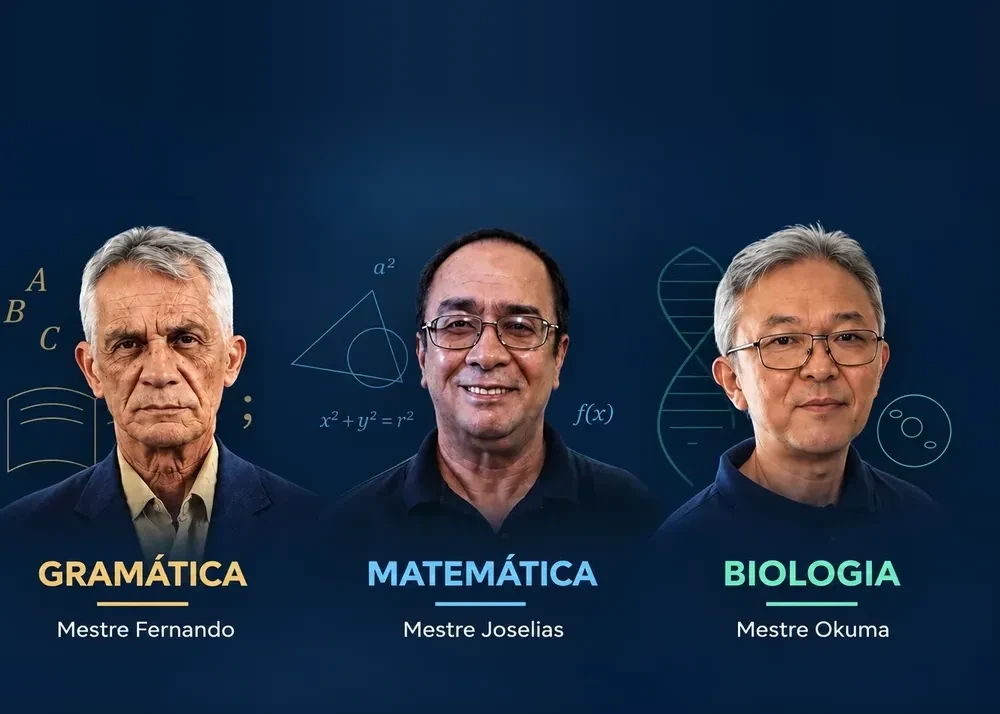
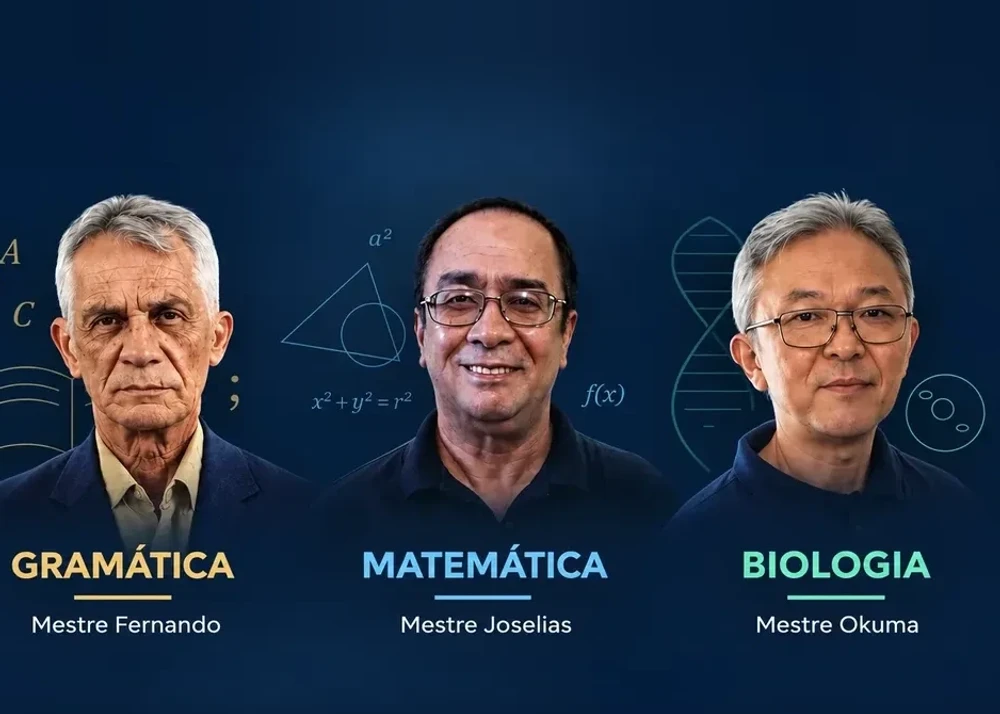
Cursos gravados: titulo Cursos gravados (etiqueta mantida), texto mais a direita, professores maiores no celular

diff --git a/app/api/[...path]/route.ts b/app/api/[...path]/route.ts
@@ -27,7 +27,7 @@ const choices=['0','1','2','3','4','5','6','7'];
 const communityDefaults:Rec[]=[{id:'comunidade',title:'Comunidade GETEPE',visible:true,fields:{'Link da comunidade (WhatsApp)':''}}];
 async function body(req:Request,max=500000){const raw=await req.text();if(raw.length>max)fail('Conteúdo muito grande.',413);try{return JSON.parse(raw)}catch{fail('Dados inválidos.')}}
 async function admin(req:Request){const user=await getAdminIdentity(req);if(!user)fail('Entre com a conta autorizada.',401);const allowed=(bindings().ADMIN_EMAILS||'').toLowerCase().split(',').map(x=>x.trim()).filter(Boolean);const dev=process.env.NODE_ENV==='development'&&user.userId==='local_seedy'&&user.email==='seedy@sites.test';if(!dev&&!allowed.includes(user.email.toLowerCase()))fail('Esta conta não tem acesso ao painel.',403);return user;}
-function normalized(data:unknown){const next=structuredClone(data) as Content;next.provas??=[];next.comunidade??=structuredClone(communityDefaults);for(const d of communityDefaults)if(!next.comunidade.some(r=>r.id===d.id))next.comunidade.push(structuredClone(d));next.paginas??=structuredClone(pageDefaults) as unknown as Rec[];for(const r of next.carrossel||[]){if(r.fields?.['Chamada superior']==='NOVAS TURMAS · INÍCIO EM 29/09')r.fields['Chamada superior']='PREPARAÇÃO PARA CONCURSOS MILITARES';if(r.fields?.Descrição)r.fields.Descrição=r.fields.Descrição.replace('Estude no seu ritmo, com Prazo conforme o curso aos cursos gravados.','Estude no seu ritmo e consulte o prazo de acesso de cada curso.')}for(const upgrade of [{"id":"slide-0","old":"Seu futuro tem\num objetivo.\nPrepare-se para ele.","title":"APMBB · Barro Branco","fields":{"Chamada superior":"NOVA TURMA · INÍCIO 12/01","Descrição":"Preparação presencial e online. Escolha sua modalidade e consulte horários, valores e materiais com a equipe.","Texto do botão":"Mais informações","Destino do botão":"#informacoes/apmbb-janeiro","Imagem":"/carrossel-apmbb-janeiro.png","Texto alternativo":"GETEPE — nova turma APMBB · Barro Branco, início em 12/01, presencial e online.","Formato":"banner"}},{"id":"slide-1","old":"Mais confiança.\nUma matéria\nde cada vez.","title":"EsPCEx · ESA · EEAR","fields":{"Chamada superior":"NOVA TURMA · INÍCIO 12/01","Descrição":"Preparação presencial e online. Escolha sua modalidade e consulte horários, valores e materiais com a equipe.","Texto do botão":"Mais informações","Destino do botão":"#informacoes/espcex-janeiro","Imagem":"/carrossel-espcex-janeiro.png","Texto alternativo":"GETEPE — nova turma EsPCEx · ESA · EEAR, início em 12/01, presencial e online.","Formato":"banner"}},{"id":"slide-2","old":"Cada conquista\nfaz parte da\nnossa história.","title":"Venha fazer parte do nosso time de aprovados!","fields":{"Chamada superior":"APROVADOS · NOSSA HISTÓRIA","Descrição":"Conheça as turmas do GETEPE e prepare-se para sua carreira militar.","Texto do botão":"Conhecer as turmas","Destino do botão":"#cursos","Imagem":"/carrossel-aprovados-tratados.png","Texto alternativo":"Venha fazer parte do nosso time de aprovados! Treze alunos do GETEPE, identificados por nome e instituição: EPCAr, EsPCEx, APMBB, AFA, ESA e Colégio Naval.","Formato":"banner"}}]){const r=next.carrossel?.find((r:Rec)=>r.id===upgrade.id);if(r&&r.title===upgrade.old&&!r.fields?.Imagem){r.title=upgrade.title;r.fields={...r.fields,...upgrade.fields};}}for(const r of next.carrossel||[]){if(r.id==='slide-2'&&r.fields?.Imagem==='/carrossel-aprovados.png')r.fields.Imagem='/carrossel-aprovados-tratados.png';}for(const r of next.carrossel||[]){if(r.id==='slide-2'&&r.fields?.Imagem==='/carrossel-aprovados-originais.png')r.fields.Imagem='/carrossel-aprovados-tratados.png';}for(const u of [{"id":"matematica","image":"/curso-gravado-matematica.png","alt":"GETEPE — curso gravado de Matemática — Mestre Joselias"},{"id":"biologia","image":"/curso-gravado-biologia.png","alt":"GETEPE — curso gravado de Biologia — Mestre Okuma"},{"id":"portugues","image":"/curso-gravado-gramatica.png","alt":"GETEPE — curso gravado de Gramática — Mestre Fernando"}]){const r=next.cursos?.find((r:Rec)=>r.id===u.id);if(r&&!r.fields?.['Imagem do produto']){r.fields??={};r.fields['Imagem do produto']=u.image;r.fields['Texto alternativo da imagem']=u.alt;}}for(const r of next.carrossel||[]){if(r.id==='slide-2'&&['/carrossel-aprovados.png','/carrossel-aprovados-originais.png','/carrossel-aprovados-tratados.png'].includes(r.fields?.Imagem)){r.title="Cursos gravados por matéria";r.fields={...r.fields,...{"Chamada superior":"CURSOS GRAVADOS · POR MATÉRIA","Descrição":"Estude no seu ritmo. Gramática com Mestre Fernando, Matemática com Mestre Joselias e Biologia com Mestre Okuma.","Texto do botão":"Conhecer os cursos gravados","Destino do botão":"#gravados","Imagem":"/carrossel-cursos-gravados.png","Texto alternativo":"GETEPE — cursos gravados por matéria: Gramática com Mestre Fernando, Matemática com Mestre Joselias e Biologia com Mestre Okuma. Estude no seu ritmo.","Formato":"banner"}};}}return upgradeTrialAndDates(next)}
+function normalized(data:unknown){const next=structuredClone(data) as Content;next.provas??=[];next.comunidade??=structuredClone(communityDefaults);for(const d of communityDefaults)if(!next.comunidade.some(r=>r.id===d.id))next.comunidade.push(structuredClone(d));next.paginas??=structuredClone(pageDefaults) as unknown as Rec[];for(const r of next.carrossel||[]){if(r.fields?.['Chamada superior']==='NOVAS TURMAS · INÍCIO EM 29/09')r.fields['Chamada superior']='PREPARAÇÃO PARA CONCURSOS MILITARES';if(r.fields?.Descrição)r.fields.Descrição=r.fields.Descrição.replace('Estude no seu ritmo, com Prazo conforme o curso aos cursos gravados.','Estude no seu ritmo e consulte o prazo de acesso de cada curso.')}for(const upgrade of [{"id":"slide-0","old":"Seu futuro tem\num objetivo.\nPrepare-se para ele.","title":"APMBB · Barro Branco","fields":{"Chamada superior":"NOVA TURMA · INÍCIO 12/01","Descrição":"Preparação presencial e online. Escolha sua modalidade e consulte horários, valores e materiais com a equipe.","Texto do botão":"Mais informações","Destino do botão":"#informacoes/apmbb-janeiro","Imagem":"/carrossel-apmbb-janeiro.png","Texto alternativo":"GETEPE — nova turma APMBB · Barro Branco, início em 12/01, presencial e online.","Formato":"banner"}},{"id":"slide-1","old":"Mais confiança.\nUma matéria\nde cada vez.","title":"EsPCEx · ESA · EEAR","fields":{"Chamada superior":"NOVA TURMA · INÍCIO 12/01","Descrição":"Preparação presencial e online. Escolha sua modalidade e consulte horários, valores e materiais com a equipe.","Texto do botão":"Mais informações","Destino do botão":"#informacoes/espcex-janeiro","Imagem":"/carrossel-espcex-janeiro.png","Texto alternativo":"GETEPE — nova turma EsPCEx · ESA · EEAR, início em 12/01, presencial e online.","Formato":"banner"}},{"id":"slide-2","old":"Cada conquista\nfaz parte da\nnossa história.","title":"Venha fazer parte do nosso time de aprovados!","fields":{"Chamada superior":"APROVADOS · NOSSA HISTÓRIA","Descrição":"Conheça as turmas do GETEPE e prepare-se para sua carreira militar.","Texto do botão":"Conhecer as turmas","Destino do botão":"#cursos","Imagem":"/carrossel-aprovados-tratados.png","Texto alternativo":"Venha fazer parte do nosso time de aprovados! Treze alunos do GETEPE, identificados por nome e instituição: EPCAr, EsPCEx, APMBB, AFA, ESA e Colégio Naval.","Formato":"banner"}}]){const r=next.carrossel?.find((r:Rec)=>r.id===upgrade.id);if(r&&r.title===upgrade.old&&!r.fields?.Imagem){r.title=upgrade.title;r.fields={...r.fields,...upgrade.fields};}}for(const r of next.carrossel||[]){if(r.id==='slide-2'&&r.fields?.Imagem==='/carrossel-aprovados.png')r.fields.Imagem='/carrossel-aprovados-tratados.png';}for(const r of next.carrossel||[]){if(r.id==='slide-2'&&r.fields?.Imagem==='/carrossel-aprovados-originais.png')r.fields.Imagem='/carrossel-aprovados-tratados.png';}for(const u of [{"id":"matematica","image":"/curso-gravado-matematica.png","alt":"GETEPE — curso gravado de Matemática — Mestre Joselias"},{"id":"biologia","image":"/curso-gravado-biologia.png","alt":"GETEPE — curso gravado de Biologia — Mestre Okuma"},{"id":"portugues","image":"/curso-gravado-gramatica.png","alt":"GETEPE — curso gravado de Gramática — Mestre Fernando"}]){const r=next.cursos?.find((r:Rec)=>r.id===u.id);if(r&&!r.fields?.['Imagem do produto']){r.fields??={};r.fields['Imagem do produto']=u.image;r.fields['Texto alternativo da imagem']=u.alt;}}for(const r of next.carrossel||[]){if(r.id==='slide-2'&&['/carrossel-aprovados.png','/carrossel-aprovados-originais.png','/carrossel-aprovados-tratados.png'].includes(r.fields?.Imagem)){r.title="Cursos gravados";r.fields={...r.fields,...{"Chamada superior":"CURSOS GRAVADOS · POR MATÉRIA","Descrição":"Estude no seu ritmo. Gramática com Mestre Fernando, Matemática com Mestre Joselias e Biologia com Mestre Okuma.","Texto do botão":"Conhecer os cursos gravados","Destino do botão":"#gravados","Imagem":"/carrossel-cursos-gravados.png","Texto alternativo":"GETEPE — cursos gravados por matéria: Gramática com Mestre Fernando, Matemática com Mestre Joselias e Biologia com Mestre Okuma. Estude no seu ritmo.","Formato":"banner"}};}}return upgradeTrialAndDates(next)}
 // Ajustes de conteúdo aplicados na leitura (como os demais acima): só trocam valores que ainda são exatamente os antigos,
 // para não sobrescrever o que a equipe editar no painel.
 const COURSE_DATES:Record<string,Record<string,[string[],string]>>={apmbb:{'Início':[['29 set 2026'],'12 jan 2027'],'Encerramento':[['25/06/2027','26/06/2027','27/07/2027'],'27/06/2027']},espcex:{'Início':[['03 nov 2026'],'12 jan 2027'],'Encerramento':[['10/09/2027'],'12/09/2027']}};

diff --git a/public/index.html b/public/index.html
@@ -1,5 +1,5 @@
 <!doctype html>
-<html lang="pt-BR"><head><meta charset="utf-8"><meta name="facebook-domain-verification" content="xtaaq9nm3v6y8pgjj0ixhj1nku29sh"><meta name="viewport" content="width=device-width,initial-scale=1"><title>GETEPÊ · Curso General Telles Pires — Preparatório para Escolas Militares</title><meta name="description" content="GETEPÊ, o Curso General Telles Pires: preparatório para APMBB (Barro Branco), EPCAR, Colégio Naval, EsPCEx, ESA, EEAR e Soldado PMESP desde 1953. Turmas presenciais e online em São Paulo, cursos gravados, apostilas e provas resolvidas."><link rel="icon" type="image/png" href="logo-marinho-teste.png"><link rel="stylesheet" href="style.css?v=99"><link rel="stylesheet" href="/guides.css?v=3"><link rel="stylesheet" href="/search.css?v=21"><script src="/search.js?v=4" defer></script><link rel="stylesheet" href="/newsletter.css?v=6"><link rel="stylesheet" href="/visual-runtime.css?v=3"><script src="/visual-runtime.js?v=3"></script><script src="/medicao.js?v=3" defer></script><script type="application/ld+json">{"@context":"https://schema.org","@type":"EducationalOrganization","name":"GETEPÊ · Curso General Telles Pires","alternateName":["GETEPÊ","GETEPE","Curso General Telles Pires","Curso Telles Pires","Telles Pires","GTP"],"url":"https://getepe.com.br/","logo":"https://getepe.com.br/logo-hd.png","foundingDate":"1953","description":"Preparatório para concursos de escolas militares e da Polícia Militar de São Paulo.","areaServed":"BR","address":{"@type":"PostalAddress","addressLocality":"São Paulo","addressRegion":"SP","addressCountry":"BR"}}</script><script>(()=>{const d=document.documentElement,f=()=>d.style.setProperty('--sbw',(innerWidth-d.clientWidth)+'px');addEventListener('resize',f);addEventListener('DOMContentLoaded',()=>{f();new ResizeObserver(f).observe(document.body)})})()</script><meta name="robots" content="index,follow"><link rel="canonical" href="https://getepe.com.br/"><meta property="og:type" content="website"><meta property="og:title" content="GETEPÊ · Curso General Telles Pires — Preparatório para Escolas Militares"><meta property="og:description" content="GETEPÊ, o Curso General Telles Pires: preparatório para APMBB (Barro Branco), EPCAR, Colégio Naval, EsPCEx, ESA, EEAR e Soldado PMESP desde 1953. Turmas presenciais e online em São Paulo, cursos gravados, apostilas e provas resolvidas."><meta property="og:image" content="https://getepe.com.br/logo-marinho-teste.png"><meta property="og:url" content="https://getepe.com.br/"></head><body><a class="skip-link" href="#app">Pular para o conteúdo</a>
+<html lang="pt-BR"><head><meta charset="utf-8"><meta name="facebook-domain-verification" content="xtaaq9nm3v6y8pgjj0ixhj1nku29sh"><meta name="viewport" content="width=device-width,initial-scale=1"><title>GETEPÊ · Curso General Telles Pires — Preparatório para Escolas Militares</title><meta name="description" content="GETEPÊ, o Curso General Telles Pires: preparatório para APMBB (Barro Branco), EPCAR, Colégio Naval, EsPCEx, ESA, EEAR e Soldado PMESP desde 1953. Turmas presenciais e online em São Paulo, cursos gravados, apostilas e provas resolvidas."><link rel="icon" type="image/png" href="logo-marinho-teste.png"><link rel="stylesheet" href="style.css?v=102"><link rel="stylesheet" href="/guides.css?v=3"><link rel="stylesheet" href="/search.css?v=21"><script src="/search.js?v=4" defer></script><link rel="stylesheet" href="/newsletter.css?v=6"><link rel="stylesheet" href="/visual-runtime.css?v=3"><script src="/visual-runtime.js?v=3"></script><script src="/medicao.js?v=3" defer></script><script type="application/ld+json">{"@context":"https://schema.org","@type":"EducationalOrganization","name":"GETEPÊ · Curso General Telles Pires","alternateName":["GETEPÊ","GETEPE","Curso General Telles Pires","Curso Telles Pires","Telles Pires","GTP"],"url":"https://getepe.com.br/","logo":"https://getepe.com.br/logo-hd.png","foundingDate":"1953","description":"Preparatório para concursos de escolas militares e da Polícia Militar de São Paulo.","areaServed":"BR","address":{"@type":"PostalAddress","addressLocality":"São Paulo","addressRegion":"SP","addressCountry":"BR"}}</script><script>(()=>{const d=document.documentElement,f=()=>d.style.setProperty('--sbw',(innerWidth-d.clientWidth)+'px');addEventListener('resize',f);addEventListener('DOMContentLoaded',()=>{f();new ResizeObserver(f).observe(document.body)})})()</script><meta name="robots" content="index,follow"><link rel="canonical" href="https://getepe.com.br/"><meta property="og:type" content="website"><meta property="og:title" content="GETEPÊ · Curso General Telles Pires — Preparatório para Escolas Militares"><meta property="og:description" content="GETEPÊ, o Curso General Telles Pires: preparatório para APMBB (Barro Branco), EPCAR, Colégio Naval, EsPCEx, ESA, EEAR e Soldado PMESP desde 1953. Turmas presenciais e online em São Paulo, cursos gravados, apostilas e provas resolvidas."><meta property="og:image" content="https://getepe.com.br/logo-marinho-teste.png"><meta property="og:url" content="https://getepe.com.br/"></head><body><a class="skip-link" href="#app">Pular para o conteúdo</a>
 <div class="preview">GETEPÊ · DESDE 1953 <span>Conheça os cursos e encontre sua preparação</span></div>
 <header><a class="brand" href="#inicio"><span class="brand-mark"><img src="logo-marinho-teste.png" alt="Logotipo oficial do Curso General Telles Pires"></span><span>GETEPÊ<small>CURSO GENERAL TELLES PIRES</small></span></a><nav aria-label="Menu principal"><a href="#cursos">Nossos cursos</a><a href="#apostilas">Apostilas</a><a href="#provas">Provas resolvidas</a><a href="#instituicoes">Sobre as instituições</a><a href="#historia">Desde 1953</a><a href="/guias/">Guias e dúvidas</a><a href="/unidade-sao-paulo/">Unidade</a><a href="#newsletter">Comunidade</a><a href="#contato">Contato</a></nav></header>
 <h1 class="visually-hidden">GETEPÊ · Curso General Telles Pires: preparação para concursos militares em São Paulo e online</h1>

diff --git a/site-shell.html b/site-shell.html
@@ -1,5 +1,5 @@
 <!doctype html>
-<html lang="pt-BR"><head><meta charset="utf-8"><meta name="facebook-domain-verification" content="xtaaq9nm3v6y8pgjj0ixhj1nku29sh"><meta name="viewport" content="width=device-width,initial-scale=1"><title>GETEPÊ · Curso General Telles Pires — Preparatório para Escolas Militares</title><meta name="description" content="GETEPÊ, o Curso General Telles Pires: preparatório para APMBB (Barro Branco), EPCAR, Colégio Naval, EsPCEx, ESA, EEAR e Soldado PMESP desde 1953. Turmas presenciais e online em São Paulo, cursos gravados, apostilas e provas resolvidas."><link rel="icon" type="image/png" href="logo-marinho-teste.png"><link rel="stylesheet" href="style.css?v=99"><link rel="stylesheet" href="/guides.css?v=3"><link rel="stylesheet" href="/search.css?v=21"><script src="/search.js?v=4" defer></script><link rel="stylesheet" href="/newsletter.css?v=6"><link rel="stylesheet" href="/visual-runtime.css?v=3"><script src="/visual-runtime.js?v=3"></script><script src="/medicao.js?v=3" defer></script><script type="application/ld+json">{"@context":"https://schema.org","@type":"EducationalOrganization","name":"GETEPÊ · Curso General Telles Pires","alternateName":["GETEPÊ","GETEPE","Curso General Telles Pires","Curso Telles Pires","Telles Pires","GTP"],"url":"https://getepe.com.br/","logo":"https://getepe.com.br/logo-hd.png","foundingDate":"1953","description":"Preparatório para concursos de escolas militares e da Polícia Militar de São Paulo.","areaServed":"BR","address":{"@type":"PostalAddress","addressLocality":"São Paulo","addressRegion":"SP","addressCountry":"BR"}}</script><script>(()=>{const d=document.documentElement,f=()=>d.style.setProperty('--sbw',(innerWidth-d.clientWidth)+'px');addEventListener('resize',f);addEventListener('DOMContentLoaded',()=>{f();new ResizeObserver(f).observe(document.body)})})()</script><meta name="robots" content="index,follow"><link rel="canonical" href="https://getepe.com.br/"><meta property="og:type" content="website"><meta property="og:title" content="GETEPÊ · Curso General Telles Pires — Preparatório para Escolas Militares"><meta property="og:description" content="GETEPÊ, o Curso General Telles Pires: preparatório para APMBB (Barro Branco), EPCAR, Colégio Naval, EsPCEx, ESA, EEAR e Soldado PMESP desde 1953. Turmas presenciais e online em São Paulo, cursos gravados, apostilas e provas resolvidas."><meta property="og:image" content="https://getepe.com.br/logo-marinho-teste.png"><meta property="og:url" content="https://getepe.com.br/"></head><body><a class="skip-link" href="#app">Pular para o conteúdo</a>
+<html lang="pt-BR"><head><meta charset="utf-8"><meta name="facebook-domain-verification" content="xtaaq9nm3v6y8pgjj0ixhj1nku29sh"><meta name="viewport" content="width=device-width,initial-scale=1"><title>GETEPÊ · Curso General Telles Pires — Preparatório para Escolas Militares</title><meta name="description" content="GETEPÊ, o Curso General Telles Pires: preparatório para APMBB (Barro Branco), EPCAR, Colégio Naval, EsPCEx, ESA, EEAR e Soldado PMESP desde 1953. Turmas presenciais e online em São Paulo, cursos gravados, apostilas e provas resolvidas."><link rel="icon" type="image/png" href="logo-marinho-teste.png"><link rel="stylesheet" href="style.css?v=102"><link rel="stylesheet" href="/guides.css?v=3"><link rel="stylesheet" href="/search.css?v=21"><script src="/search.js?v=4" defer></script><link rel="stylesheet" href="/newsletter.css?v=6"><link rel="stylesheet" href="/visual-runtime.css?v=3"><script src="/visual-runtime.js?v=3"></script><script src="/medicao.js?v=3" defer></script><script type="application/ld+json">{"@context":"https://schema.org","@type":"EducationalOrganization","name":"GETEPÊ · Curso General Telles Pires","alternateName":["GETEPÊ","GETEPE","Curso General Telles Pires","Curso Telles Pires","Telles Pires","GTP"],"url":"https://getepe.com.br/","logo":"https://getepe.com.br/logo-hd.png","foundingDate":"1953","description":"Preparatório para concursos de escolas militares e da Polícia Militar de São Paulo.","areaServed":"BR","address":{"@type":"PostalAddress","addressLocality":"São Paulo","addressRegion":"SP","addressCountry":"BR"}}</script><script>(()=>{const d=document.documentElement,f=()=>d.style.setProperty('--sbw',(innerWidth-d.clientWidth)+'px');addEventListener('resize',f);addEventListener('DOMContentLoaded',()=>{f();new ResizeObserver(f).observe(document.body)})})()</script><meta name="robots" content="index,follow"><link rel="canonical" href="https://getepe.com.br/"><meta property="og:type" content="website"><meta property="og:title" content="GETEPÊ · Curso General Telles Pires — Preparatório para Escolas Militares"><meta property="og:description" content="GETEPÊ, o Curso General Telles Pires: preparatório para APMBB (Barro Branco), EPCAR, Colégio Naval, EsPCEx, ESA, EEAR e Soldado PMESP desde 1953. Turmas presenciais e online em São Paulo, cursos gravados, apostilas e provas resolvidas."><meta property="og:image" content="https://getepe.com.br/logo-marinho-teste.png"><meta property="og:url" content="https://getepe.com.br/"></head><body><a class="skip-link" href="#app">Pular para o conteúdo</a>
 <div class="preview">GETEPÊ · DESDE 1953 <span>Conheça os cursos e encontre sua preparação</span></div>
 <header><a class="brand" href="#inicio"><span class="brand-mark"><img src="logo-marinho-teste.png" alt="Logotipo oficial do Curso General Telles Pires"></span><span>GETEPÊ<small>CURSO GENERAL TELLES PIRES</small></span></a><nav aria-label="Menu principal"><a href="#cursos">Nossos cursos</a><a href="#apostilas">Apostilas</a><a href="#provas">Provas resolvidas</a><a href="#instituicoes">Sobre as instituições</a><a href="#historia">Desde 1953</a><a href="/guias/">Guias e dúvidas</a><a href="/unidade-sao-paulo/">Unidade</a><a href="#newsletter">Comunidade</a><a href="#contato">Contato</a></nav></header>
 <h1 class="visually-hidden">GETEPÊ · Curso General Telles Pires: preparação para concursos militares em São Paulo e online</h1>

diff --git a/public/style.css b/public/style.css
@@ -590,3 +590,6 @@ html,body{overflow-x:clip}
 .hero:has(.campaign-banner source) .hero-bottom .dots button{width:11px;height:11px}
 .hero .campaign-banner[data-art="carrossel-cursos-gravados"]:has(source) .campaign-mobile-copy .eyebrow{font-size:clamp(13px,.95vw,16px)!important}
 }
+/* Cursos gravados: bloco do texto e botão um pouco mais à esquerda (professores também deslocados na arte). */
+
+@media(min-width:621px){.hero .campaign-banner[data-art="carrossel-cursos-gravados"]:has(source[srcset*="-tablet"]) .campaign-mobile-copy{transform:translateX(14px)}}@media(min-width:1025px){.hero .campaign-banner[data-art="carrossel-cursos-gravados"]:has(source[srcset*="-tablet"]) .campaign-mobile-copy{transform:translateX(1.6vw)}}
